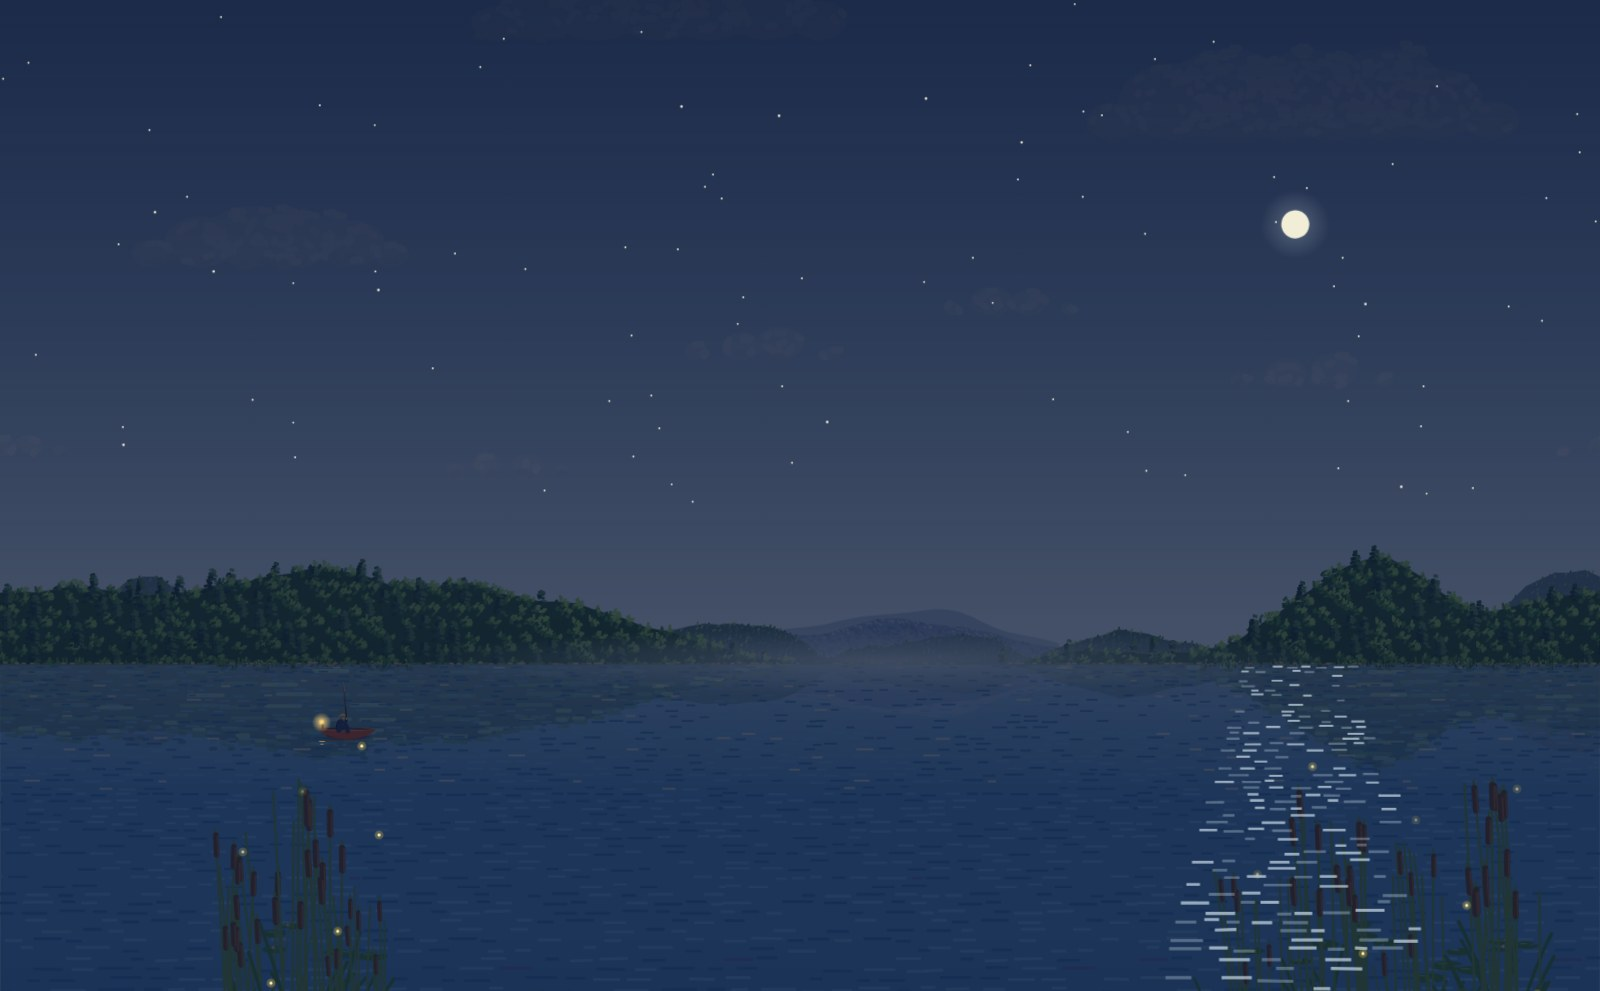
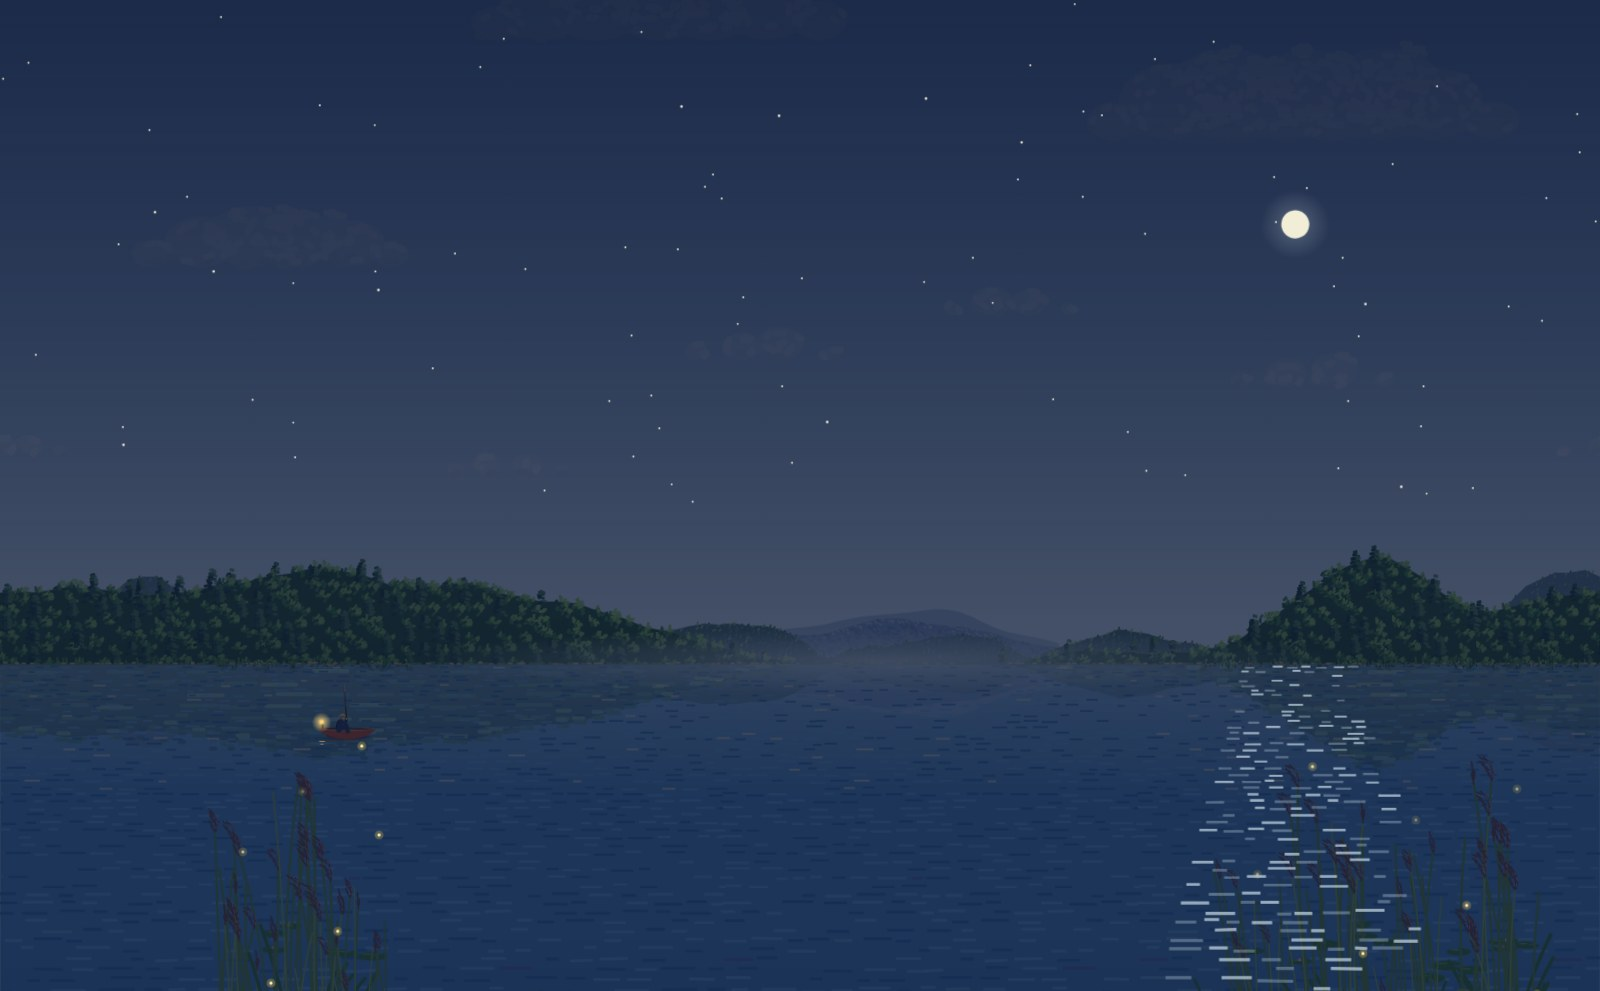
Reeds repainted: feathery plumes nodding with the wind, livelier clumps, dry straw in winter

diff --git a/hooks/scene.ts b/hooks/scene.ts
@@ -594,10 +594,13 @@ const SLOTS: Record<string, Slot> = {
   c3: { prop: 'stroke', day: ['#6c9a60', '#588a52', '#6c8756', '#eef2f6'] },
   // shore: grass and sand, snow in winter
   g1: { prop: 'stroke', day: ['#79a556', '#5b8b3e', '#a3893f', '#e8eef4'] },
-  // reeds near the viewer: stalks, blades, and heads (brown cattails, pale plumes in autumn and winter)
-  e1: { prop: 'stroke', day: ['#7da25a', '#5d8a42', '#c2a564', '#cfc6ad'] },
-  e3: { prop: 'stroke', day: ['#5f8f44', '#3f7536', '#a88a4c', '#b9b19a'] },
-  e2: { prop: 'stroke', day: ['#7a5636', '#5f4129', '#e3d6b4', '#efe9dc'] },
+  // reeds near the viewer: stalks, blades, and plumes (purple-brown young plumes in spring and summer, mauve-cream in
+  // autumn, silver in winter); the reeds stand through the winter, dry and straw-coloured
+  e1: { prop: 'stroke', day: ['#7da25a', '#5d8a42', '#c2a564', '#b39566'] },
+  e3: { prop: 'stroke', day: ['#5f8f44', '#3f7536', '#a88a4c', '#9a8460'] },
+  // the thin, lit stalks and the narrow leaves: lighter and warmer, a broken colour among the others
+  ew: { prop: 'stroke', day: ['#a3bf6a', '#86ad55', '#dcc27e', '#d0b98a'] },
+  e2: { prop: 'stroke', day: ['#7a5250', '#6c4748', '#ddd0c0', '#d2cdc4'] },
   g2: { prop: 'stroke', day: ['#cdc28a', '#bfae70', '#caa060', '#cdd7e2'] },
   // water: base, deep dabs, mid dabs, glints
   wa: { prop: 'fill', day: ['#6e9cc2', '#4c8cc2', '#5f82a6', '#8aa2b8'], night: ['#0f1c44', '#0d1c48', '#111b40', '#152042'] },
@@ -609,7 +612,7 @@ const SLOTS: Record<string, Slot> = {
   w5: { prop: 'stroke', day: ['#d9d5c4', '#d6d6c4', '#e2d0b2', '#e0ddd6'] },
   // v37: the light side of the reeds' heads; lily pads by the reeds (young in spring, full in summer, floating gold
   // leaves in autumn, thin plates of ice in winter), the light on them, and summer's flowers (the light in other seasons)
-  e4: { prop: 'stroke', day: ['#a4774c', '#8a6038', '#f6eedb', '#ffffff'] },
+  e4: { prop: 'stroke', day: ['#c09a86', '#aa827a', '#fff2d2', '#ffffff'] },
   lp: { prop: 'fill', day: ['#6b9a49', '#3f7a38', '#b0843c', '#c6d2dd'] },
   lh: { prop: 'stroke', day: ['#a8d07c', '#80b65c', '#dcb062', '#f2f6fa'] },
   lf: { prop: 'stroke', day: ['#a8d07c', '#f6b3c8', '#dcb062', '#f2f6fa'] },
@@ -1780,6 +1783,77 @@ function flight(name: string, seed: number, passes: number, [low, high]: readonl
   const stops = legs.map((l, i) => `${pct(l.t)}%{translate:${l.from}}${pct(l.t + l.dur)}%{translate:${l.to}${side(l.to) === side(legs[(i + 1) % legs.length]!.from) ? '' : ';animation-timing-function:step-end'}}`)
   return { css: `@keyframes ${name}{${stops.join('')}100%{translate:${legs[0]!.from}}}`, seconds: R(t) }
 }
+// Reed plumes (Phragmites), painted once each as a marker and set on the stalks' tops by a path that is never stroked,
+// so a plume costs a few characters where it stands. Each is a feathery tassel of small flat dabs laid along it, nodding
+// to leeward (left), widest in its lower middle and tapering to a fine tip, the under side fuller and hanging; the body
+// in e2, the light on its upper (sun) side in e4. Six kinds, from young ones standing narrow and nearly upright to old
+// ones nodding and trailing in the wind (a clump takes one of each age: see reeds).
+// (A marker costs the player a little each time it is drawn, so each plume is two strokes, of flat-ended dabs.) Written at PS times the size they
+// show at, in whole units.
+const PS = 2
+// [length, nod at the tip (radians), half width, how loose its end hangs, rows of dabs]
+const PLUME_KINDS = [
+  [62, 0.25, 10, 0, 6],
+  [68, 0.45, 13, 0.1, 6],
+  [72, 0.7, 16, 0.3, 7],
+  [76, 0.9, 17, 0.5, 7],
+  [78, 1.1, 15, 0.8, 6],
+  [82, 1.3, 13, 1, 6],
+] as const
+const PLUMES = PLUME_KINDS.map(([L, nod, W, loose, n], q) => {
+  const r = rng(7700 + q * 31)
+  /** A point on the plume: u along it (0 at the stalk's top, 1 at the tip), f across it (-1 the upper side, 1 the
+   * under side, at its full width there). */
+  const at = (u: number, f: number) => {
+    let [x, y, a] = [0, 8, 0.04]
+    const k = 24
+    for (let j = 1; j <= Math.round(k * u); j++) {
+      a = 0.04 - nod * ((j - 0.5) / k) ** 1.3
+      x += (Math.sin(a) * L) / k
+      y -= (Math.cos(a) * L) / k
+    }
+    // widest a third of the way up, the under side fuller; a loose plume's end trails wider below
+    const o = f * W * 2.2 * u ** 0.6 * (1 - u) ** (0.9 - 0.5 * loose) * (f > 0 ? 1 : 0.6)
+    return [x - o * Math.cos(a), y - o * Math.sin(a)] as const
+  }
+  const d = new Dabs().order('e2', 'e4').ends(PS)
+  const dab = (slot: string, u: number, len: number, f1: number, f2: number) => {
+    const [x, y] = at(Math.max(0, u - len / 2), f1)
+    const [x2, y2] = at(Math.min(1, u + len / 2), f2)
+    d.add(slot, (x * PS) / 2, (y * PS) / 2, ((x2 - x) * PS) / 2, ((y2 - y) * PS) / 2)
+  }
+  // the body: short dabs laid along the plume in rows, as many across as its width takes, the under ones hanging out
+  // a little, and more so toward a loose plume's end; one on the stalk's top joins them to it
+  dab('e2', 0.04, 0.12, 0, 0)
+  for (let j = 0; j < n; j++) {
+    const u = 0.1 + (0.86 * (j + 0.3 + r() * 0.4)) / n
+    const across = Math.max(1, Math.round((W * 2.2 * u ** 0.6 * (1 - u) ** 0.9) / 5))
+    for (let c = 0; c < across; c++) {
+      const f = across === 1 ? r() * 0.4 - 0.2 : -0.85 + (1.75 * (c + r() * 0.6 + 0.2)) / across - 0.15 / across
+      dab('e2', u, 0.16 + r() * 0.06, f, f + (f > 0 ? 0.25 + 0.5 * loose * u : -0.1))
+    }
+  }
+  // the light on the upper (sun) side; not on the narrow young plumes, which saves the player a stroke for each
+  if (q > 1) for (let j = 0; j < 3; j++) dab('e4', 0.14 + 0.22 * j + r() * 0.05, 0.1, -0.55 - r() * 0.3, -0.6)
+  return `<marker id="rp${q}">${d.svg(0)}</marker>`
+})
+const PLUME_DEFS = `<defs>${PLUMES.join('')}</defs>`
+/** One clump's plumes: for each kind in use, a path through the stalks' tops that is never stroked, with a plume (its
+ * marker) on each of its points; the clump's stroke width sets their size. */
+function plumes(tops: [number, number][][]) {
+  return tops
+    .map((list, q) => {
+      if (!list) return ''
+      let [px, py] = [0, 0]
+      const d = list.map(([x, y], j) => {
+        const st = (j > 0 && x >= px ? ' ' : '') + nums(x - px, y - py)
+        ;[px, py] = [x, y]
+        return st
+      })
+      return `<path class="k${q}" d="m${d.join('')}"/>`
+    })
+    .join('')
+}
 // Reeds near the viewer at both sides, rooted below the picture's edge and standing tall out of the water, bending
 // with the gusts. They stand where any window shows them: inside the sidebar's edge and the chat column's on the
 // left, the chat column's and the side panel's on the right; and tall enough to show above the bottom edge even when a
@@ -1788,13 +1862,18 @@ const REEDS = ([[60, 1290, 0.9], [150, 1275, 1], [215, 1300, 0.75], [1430, 1295,
   ([x, y, k]) => [outX(x), outY(y), k] as const,
 )
 function reeds(rand: () => number) {
-  // v37's finer brushwork, from its own stream: a few narrow leaves, some bent over; and the light down one side of
-  // each head, a thin copy of the heads (their colour comes from the group, so the copy takes the light's)
+  // v37's finer brushwork, from its own stream: a few narrow leaves, some bent over. The plumes' kinds, from another.
+  // (Nothing here draws from rand but what v42 drew, in the same order, so all that is drawn after keeps its place.)
   const fine = rng(6151)
-  return REEDS.map(([cx, cy, k], i) => {
+  const pf = rng(4409)
+  // the clump as a painter would set it down, from a stream of its own: stalks bowed this way and that, some crossing,
+  // a rhythm of tall and short, every fourth stalk thinner and lit (another colour), now and then a blade snapped and
+  // hanging
+  const bend = rng(5303)
+  return PLUME_DEFS + REEDS.map(([cx, cy, k], i) => {
     const leaves: string[] = []
     // each path's moves written relative to where the pen stopped, when that is shorter
-    const pen = { stalk: [0, 0], head: [0, 0], blade: [0, 0] }
+    const pen = { stalk: [0, 0], lit: [0, 0], blade: [0, 0] }
     const to = (k: keyof typeof pen, x: number, y: number, rest: string, [ex, ey]: readonly number[]) => {
       const [px, py] = pen[k]
       const abs = `M${pair(x, y)}`
@@ -1803,26 +1882,39 @@ function reeds(rand: () => number) {
       return (rel.length < abs.length && px !== 0 ? rel : abs) + rest
     }
     let stalk = ''
-    let head = ''
+    let lit = ''
+    const tops: [number, number][][] = []
     let blade = ''
     const n = R(14 * k) + 4
     // drawn ZK larger than v23 drew them, so they keep their size on screen
     const s = k * ZK
     for (let j = 0; j < n; j++) {
       const bx = cx + (rand() - 0.5) * 90 * s
-      const h = (300 + rand() * 170) * s
+      const bow = (bend() - 0.5) * 70 * s
+      const h = (300 + rand() * 170) * s * (bend() < 0.3 ? 0.7 + bend() * 0.15 : 1)
       const lean = ((rand() - 0.5) * 50 * k - 8) * ZK
       // (written from the clump's root in a translated group they would take fewer digits, but Chromium rasterises a
       // still, translated group a little differently, so they stay in the canvas's own units)
-      stalk += to('stalk', R(bx), cy, `q${nums(R(lean * 0.2), R(-h * 0.5), R(lean), R(-h))}`, [R(lean), R(-h)])
+      // (stalks, blades and leaves are flat-ended, which the player draws for less: their ends are below the picture's
+      // edge, under a plume, or narrow enough that the eye cannot tell)
+      const way = j % 4 === 2 ? 'lit' : 'stalk'
+      const st = to(way, R(bx), cy, `q${nums(R(lean * 0.2 + bow), R(-h * 0.5), R(lean), R(-h))}`, [R(lean), R(-h)])
+      if (way === 'lit') lit += st
+      else stalk += st
       if (rand() < 0.6) {
-        const [dx, dy] = [R(-lean * 0.06), R(30 * s)]
-        head += to('head', R(bx + lean * 0.96), R(cy - h + 10 * s), dx === 0 ? `v${dy}` : `l${nums(dx, dy)}`, [dx, dy])
+        // which plume: three of the six kinds for each clump (a young one, a full one, a loose one)
+        const q = (i + Math.floor(pf() * 3) * 2) % PLUMES.length
+        ;(tops[q] ??= []).push([R(bx + lean), R(cy - h)])
       }
       if (rand() < 0.7) {
         const side = rand() < 0.5 ? -1 : 1
         const end = [R(side * (50 + rand() * 30) * s), R(-h * (0.45 + rand() * 0.15))] as const
-        blade += to('blade', R(bx), cy, `q${nums(R(side * 25 * s), R(-h * 0.35), ...end)}`, end)
+        if (bend() < 0.12) {
+          // snapped two thirds of the way up, its end hanging down and out
+          const [kx, ky] = [R(end[0] * 0.75), R(end[1] * 0.68)]
+          const [fx, fy] = [R(side * (22 + bend() * 20) * s), R((30 + bend() * 25) * s)]
+          blade += to('blade', R(bx), cy, `q${nums(R(side * 25 * s), R(-h * 0.3), kx, ky)}l${nums(fx, fy)}`, [kx + fx, ky + fy])
+        } else blade += to('blade', R(bx), cy, `q${nums(R(side * 25 * s), R(-h * 0.35), ...end)}`, end)
       }
     }
     for (let j = 0; j < 3; j++) {
@@ -1831,7 +1923,7 @@ function reeds(rand: () => number) {
       const bent = fine() < 0.5
       leaves.push(`M${pair(bx, cy)}q${nums(R(side * (12 + fine() * 14) * s), R(-h * 0.7), R(side * (bent ? 70 : 34) * s), R(-h * (bent ? 0.62 : 1)))}`)
     }
-    return `<g class="x${i}"><path class="e3" stroke-width="${R(45 * s) / 10}" d="${blade}"/><path class="e1" stroke-width="${R(32 * s) / 10}" d="${stalk}"/><path class="e1" stroke-width="${R(22 * s) / 10}" d="${leaves.join('')}"/><g class="e2" stroke-width="${R(8 * s)}"><path id="r${i}" d="${head}"/></g><g class="e4" stroke-width="${R(26 * s) / 10}"><use href="#r${i}" x="${num(2.6 * s)}" y="${R(2 * s)}"/></g></g>`
+    return `<g class="x${i}" stroke-width="${num(s / PS)}"><path class="e3 bu" stroke-width="${R(45 * s) / 10}" d="${blade}"/><path class="e1 bu" stroke-width="${R(32 * s) / 10}" d="${stalk}"/><path class="ew bu" stroke-width="${R(22 * s) / 10}" d="${leaves.join('')}${lit}"/>${plumes(tops)}</g>`
   }).join('')
 }
 
@@ -2173,7 +2265,7 @@ ${variant === 'test' ? '' : `.gy{animation:gy var(--b) ease-in-out var(--o,0s) i
 .bj{--b:${short(FLOCK_BEAT)}s;animation:jostle var(--t) ease-in-out var(--j) infinite alternate}@keyframes jostle{from{translate:-3px 1.6px}to{translate:3px -2.4px}}
 @keyframes gn{0%,30%,62%,100%{rotate:0deg}42%,50%{rotate:-5deg}}.kf{fill:#5d6b7a;transform:matrix(-.6,.16,0,.75,5,-2)}
 .oy{--b:${short(BEAT_S)}s;animation:oy var(--t) ease-in-out var(--j) infinite alternate,gn 23s ease-in-out var(--d) infinite}@keyframes oy{from{translate:0 -11px}to{translate:0 11px}}
-${REEDS.map((_, i) => `.x${i}`).join(',')}{animation:reed ${GUST}s ease-in-out var(--j) infinite}${REEDS.map(([x, y], i) => `.x${i}{transform-origin:${x}px ${y}px;--j:${short(gustDelay(x))}s}`).join('')}
+marker{overflow:visible}.e2{stroke-width:${num(2.2 * PS)}}.e4{stroke-width:${num(1.6 * PS)}}${PLUMES.map((_, q) => `.k${q}{marker:url(#rp${q})}`).join('')}${REEDS.map((_, i) => `.x${i}`).join(',')}{animation:reed ${GUST}s ease-in-out var(--j) infinite}${REEDS.map(([x, y], i) => `.x${i}{transform-origin:${x}px ${y}px;--j:${short(gustDelay(x))}s}`).join('')}
 ${gustFrames('reed', s => `transform:skewX(${num(0.5 + 1.9 * s)}deg)`)}
 
 .sk{animation:flake 400s linear infinite}@keyframes flake{to{transform:translateY(${Y1 - Y0}px)}}

diff --git a/tests/lake.test.tsx b/tests/lake.test.tsx
@@ -1,6 +1,6 @@
 import { expect, test } from 'claude-code/testing'
 
-const SCENE = 'lake42-auto-60-full'
+const SCENE = 'lake43-auto-60-full'
 
 function engine(on: any, sets: unknown[]) {
   on('command.register', (_: unknown, e: { name: string }) => ({ value: { command: e.name } }))
@@ -39,7 +39,7 @@ test('/lake pins a season, /lake off clears, /lake on sets it again', async ($, 
 
   const autumn = await $.command.run({ command: 'lake', args: '秋' })
   expect(String(autumn.text)).toContain('定格在秋')
-  expect(sets.at(-1).backdrop.scene).toBe('lake42-autumn-60-full')
+  expect(sets.at(-1).backdrop.scene).toBe('lake43-autumn-60-full')
 
   const off = await $.command.run({ command: 'lake', args: 'off' })
   expect(String(off.text)).toContain('已关闭')
@@ -76,7 +76,7 @@ test('/lake test and /lake lite draw lighter scenes', async ($, on) => {
   for (const v of ['test', 'lite'] as const) {
     await $.command.run({ command: 'lake', args: v })
     const scene = sets.at(-1).backdrop.scene
-    expect(scene).toBe(`lake42-auto-60-${v}`)
+    expect(scene).toBe(`lake43-auto-60-${v}`)
     const ui = await $.ui.mount({ plugin: 'stipple-seasons', surface: 'desktop', component: 'Backdrop', props: { scene, plugin: 'stipple-seasons', glass: { blur: 14, opacity: 0.55 } } } as any)
     const source = String((await ui.find({ type: 'Svg' }))?.props.source ?? '')
     expect(source.length < (v === 'test' ? 30000 : 125000)).toBe(true)
@@ -113,7 +113,7 @@ test('/lake 晴|阴|雪 holds the weather, /lake auto lets it turn again', async
   const snow = await $.command.run({ command: 'lake', args: '雪' })
   expect(String(snow.text)).toContain('一直下雪')
   const scene = sets.at(-1).backdrop.scene
-  expect(scene).toBe('lake42-auto-60-full-snow')
+  expect(scene).toBe('lake43-auto-60-full-snow')
   const ui = await $.ui.mount({ plugin: 'stipple-seasons', surface: 'desktop', component: 'Backdrop', props: { scene, plugin: 'stipple-seasons', glass: { blur: 14, opacity: 0.55 } } } as any)
   const source = String((await ui.find({ type: 'Svg' }))?.props.source ?? '')
   expect(source.includes('.sn{opacity:1}')).toBe(true)
@@ -121,10 +121,10 @@ test('/lake 晴|阴|雪 holds the weather, /lake auto lets it turn again', async
   await ui.unmount()
 
   await $.command.run({ command: 'lake', args: '阴' })
-  expect(sets.at(-1).backdrop.scene).toBe('lake42-auto-60-full-cloudy')
+  expect(sets.at(-1).backdrop.scene).toBe('lake43-auto-60-full-cloudy')
 
   await $.command.run({ command: 'lake', args: 'auto' })
-  expect(sets.at(-1).backdrop.scene).toBe('lake42-auto-60-full')
+  expect(sets.at(-1).backdrop.scene).toBe('lake43-auto-60-full')
 })
 
 test('the sun and moon keep the local clock, and /lake says when they rise and set', async ($, on) => {

diff --git a/hooks/register.tsx b/hooks/register.tsx
@@ -9,7 +9,7 @@ const PLUGIN = 'stipple-seasons'
 const COMMAND = 'lake'
 const DEFAULT_MINUTES = 60
 // Part of the scene's name: a new value makes the app draw the scene again instead of keeping the one it has.
-const SCENE_VERSION = 42
+const SCENE_VERSION = 43
 
 // The app's own colours, tinted to the lake: misty blue paper by day, moonlit navy by night.
 const { theme, problems } = makeColors({
